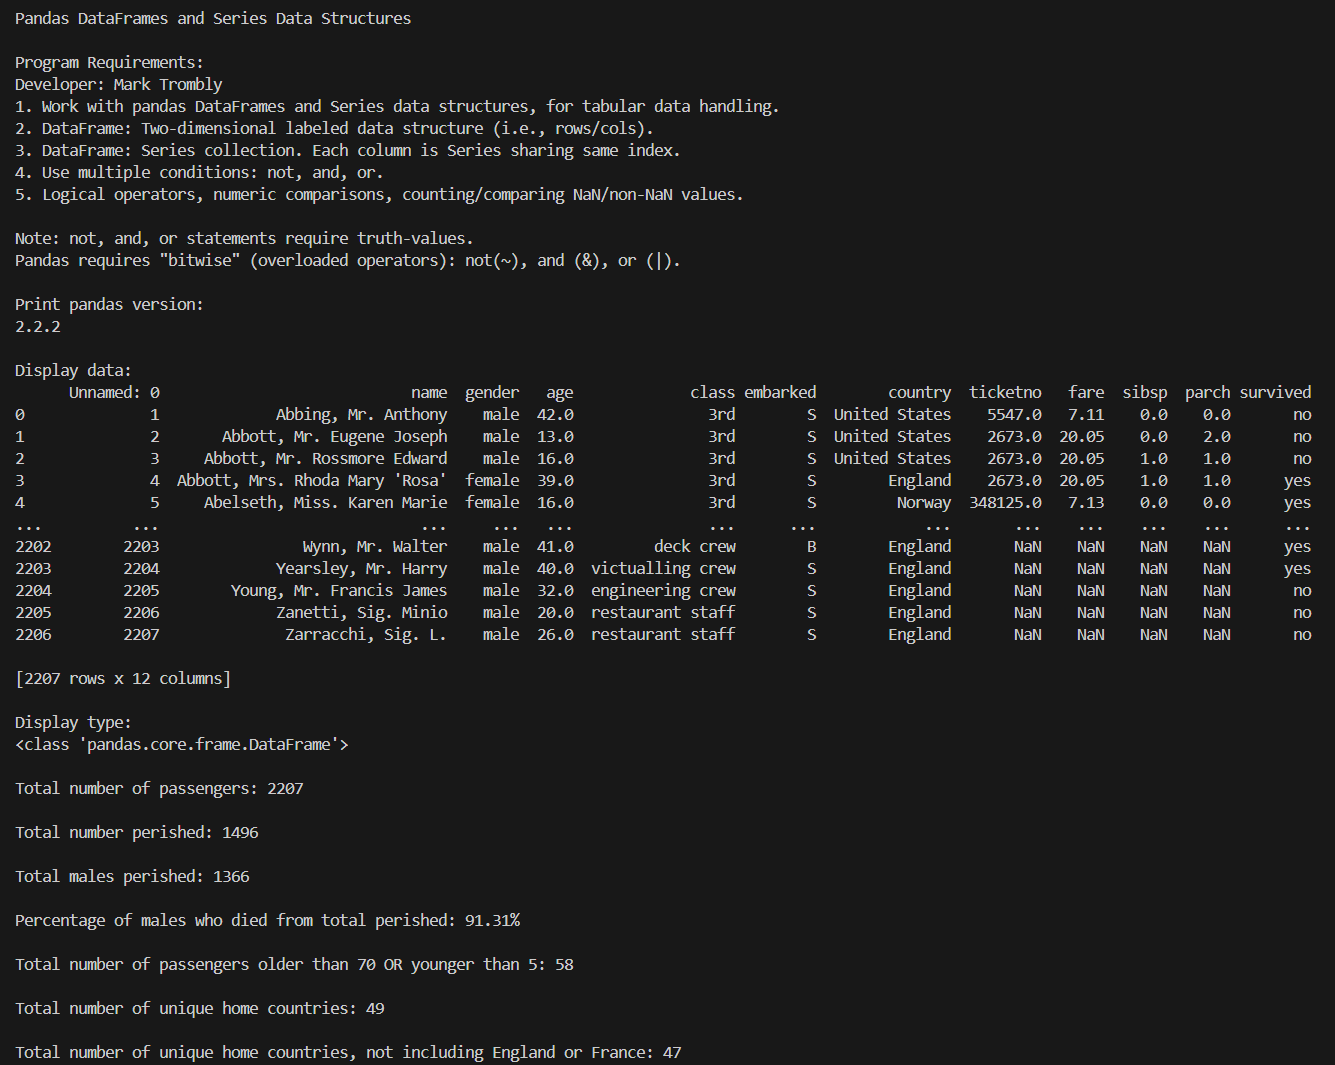
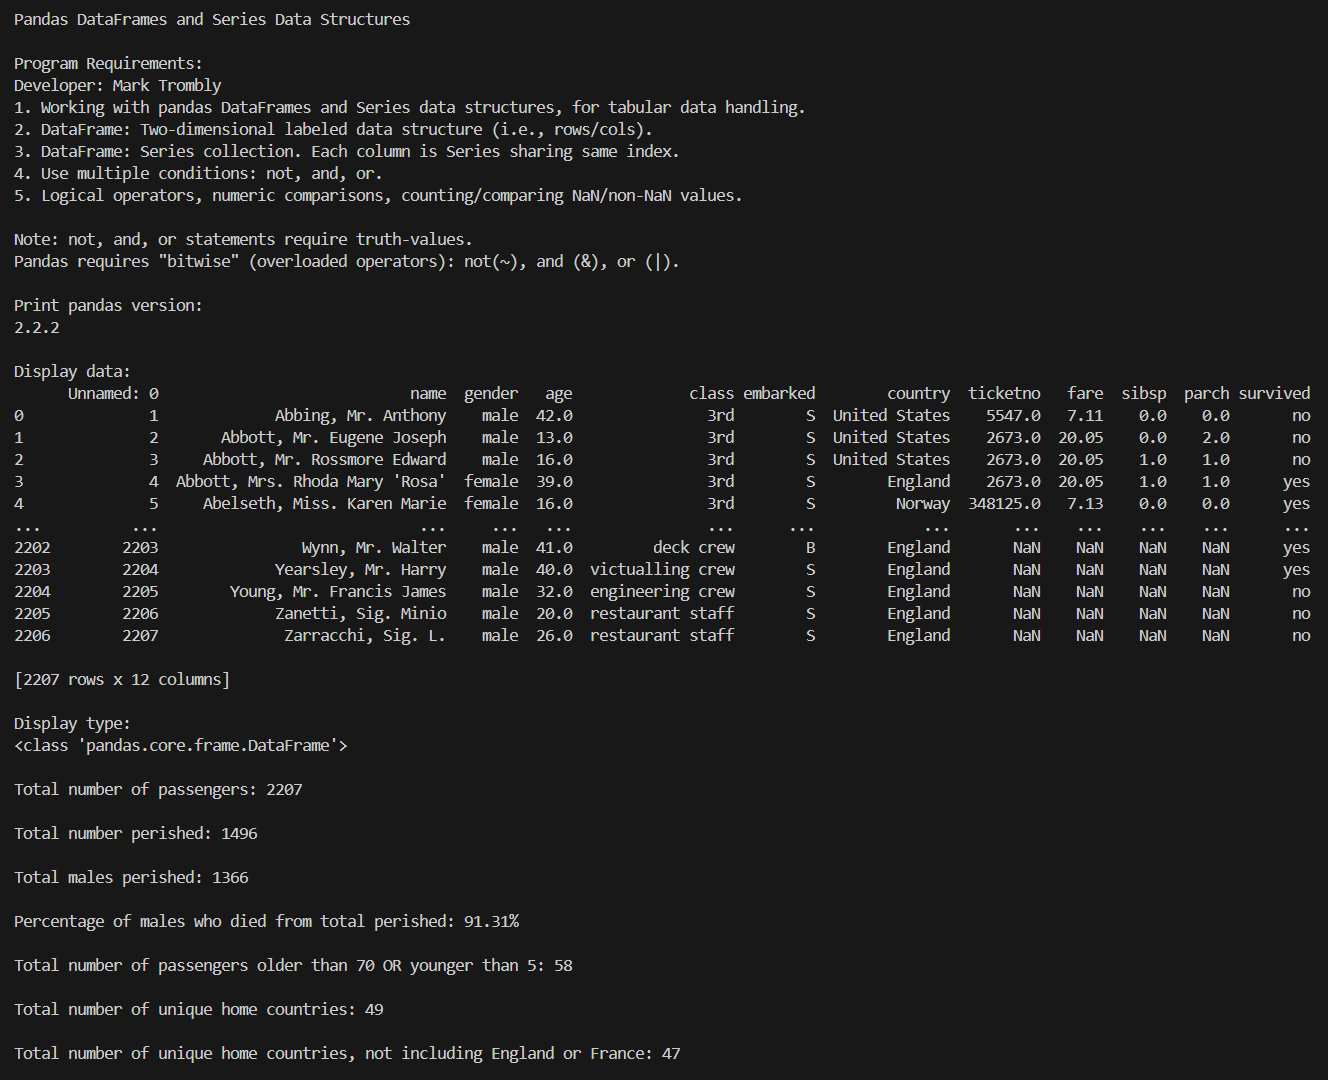
Assignment #3 update A3

diff --git a/skillsets/s6_pandas_df_and_series_2/functions.py b/skillsets/s6_pandas_df_and_series_2/functions.py
@@ -12,7 +12,7 @@ def get_requirements():
     print("\nPandas DataFrames and Series Data Structures")
     print("\nProgram Requirements:\n"
           "Developer: Mark Trombly\n"
-          + "1. Work with pandas DataFrames and Series data structures, for tabular data handling.\n"
+          + "1. Working with pandas DataFrames and Series data structures, for tabular data handling.\n"
           + "2. DataFrame: Two-dimensional labeled data structure (i.e., rows/cols).\n"
           + "3. DataFrame: Series collection. Each column is Series sharing same index.\n"
           + "4. Use multiple conditions: not, and, or.\n"
@@ -115,4 +115,4 @@ def not_operator(my_titanic_df):
     # print(non_excluded_countries)
 
     print("\nTotal number of unique home countries, not including England or France: ", end="")
-    print(len(non_excluded_countries))
+    print(len(non_excluded_countries),"\n")
